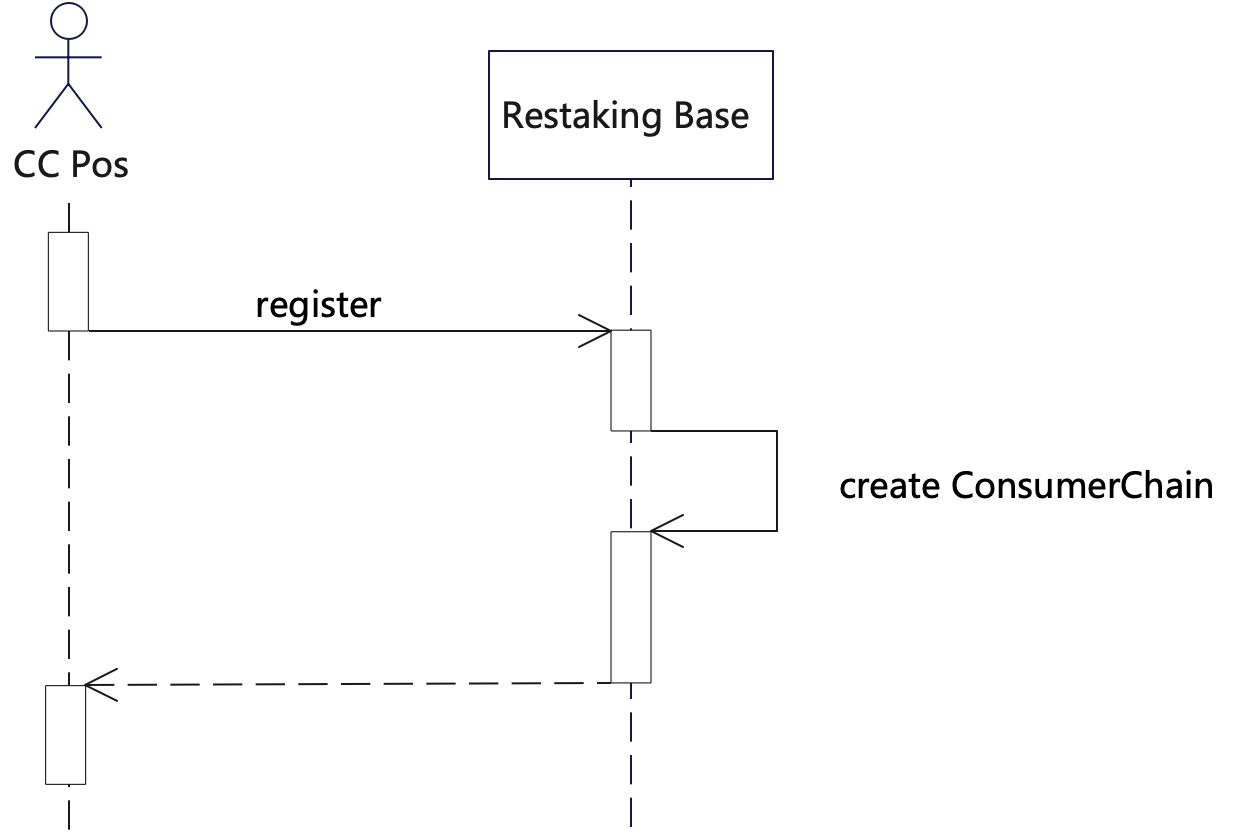
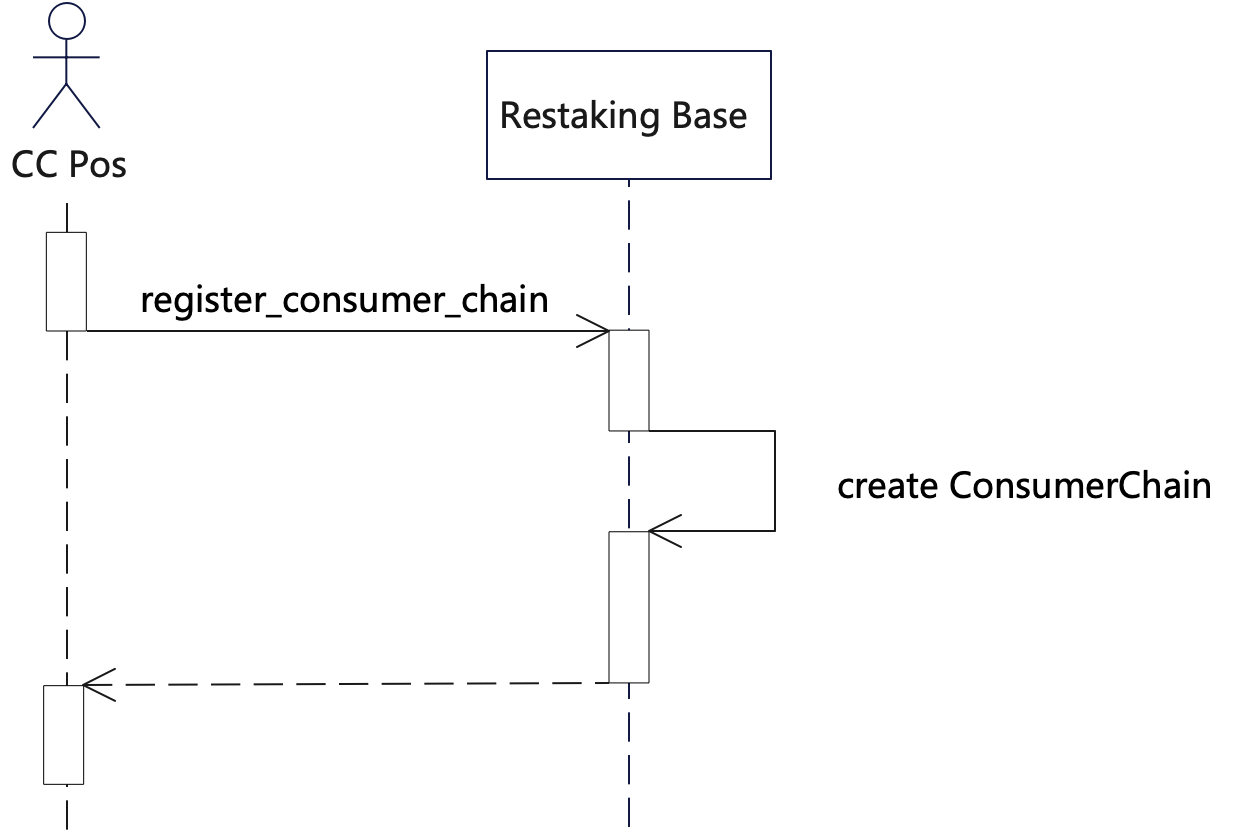
adjust spec and add datastruct and interface

diff --git a/README.md b/README.md
@@ -5,19 +5,20 @@ This contract aims to provide two main functionalities. The first one is to prox
 Contents:
 
 - [Restaking Base](#restaking-base)
-	- [Terminology](#terminology)
-	- [Function specification](#function-specification)
-		- [Stake](#stake)
-		- [Increase Stake](#increase-stake)
-		- [Decrease Stake](#decrease-stake)
-		- [Register](#register)
-		- [Bond](#bond)
-		- [Unbond](#unbond)
-		- [Kick](#kick)
-		- [Slash](#slash)
-		- [Unstake](#unstake)
-		- [Withdraw](#withdraw)
-		- [Query Restaking](#query-restaking)
+    - [Terminology](#terminology)
+    - [Function specification](#function-specification)
+        - [Stake](#stake)
+        - [Increase Stake](#increase-stake)
+        - [Decrease Stake](#decrease-stake)
+        - [Register](#register)
+        - [Bond](#bond)
+        - [Unbond](#unbond)
+        - [Kick](#kick)
+        - [Slash](#slash)
+        - [Unstake](#unstake)
+        - [Withdraw](#withdraw)
+        - [Query Restaking](#query-restaking)
+    - [DataStruct and Interfaces](#dataStruct-and-interfaces)
 
 ## Terminology
 
@@ -47,38 +48,53 @@ Contents:
 
 ### Stake
 
-The `stake` operation requires specifying an account that implements the `staking pool` interface. Users will stake attached NEAR tokens to this account and record it internally in the `staking-base` contract.
+The `stake` operation requires specifying an account which is sub-account of near `staking-pool-factory` account. Users will stake attached NEAR tokens to this account and record it internally in the `staking-base` contract.
 
-Users can only choose one `staking pool` for `staking` at a time. If they want to switch to another `staking pool`, they need to complete an `unstake` operation first.
+Users can only choose one `staking pool` for `staking` at same time. If they want to switch to another `staking pool`, they need to complete an `unstake` operation first.
 
 ![](images/stake.png)
 
 ### Increase Stake
 
-Increase the `staker`  balance after the `stake` operation has been completed.
+The `Staker` can increase their `staking` amount after the `stake` operation has been completed.
 ![](images/increase_stake.png)
 
 ### Decrease Stake
 
-The `Staker` can reduce their `stake` amount, but it cannot be less than the minimum value specified by any `consumer chain` they are currently `bonding` to.
+The `Staker` can reduce their `staking` amount after the `stake` operation has been completed. The `CC Pos` can't stop `Staker` decreasing their stake amount, but the `CC Pos` can only select `Stakers` with staking balances ranked within a certain range.
 
 ![](images/decrease_stake.png)
 
 ### Register
 
-This interface allows a `consumer chain` to submit registration information to the staking-base contract. The following information needs to be provided: `energy_cost `, `unbond_period `, `minimum_bond_amount `, `website `, `governance `, and `slash_beneficiary_account`. Additionally, a certain amount of NEAR tokens needs to be attached as the registration fee during the registration process.
-
-There will also be another interface `update_consumer_chain_info` that allows the `consumer chain` to update their information (excluding `governance `) and this interface must be called by the `governance` account.
+This `consumer chain` can submit registration information to the staking-base contract. The following information needs to be provided: `chain_id`, `energy_cost `, `unbond_period `, `website `, `governance `, and `treasury`. Additionally, a certain amount of NEAR tokens needs to be attached as the registration fee during the registration process.
 
 ![](images/register.png)
 
+### Update CC Info
+
+The `CC Gov` can update `CC Pos` information and this interface must be called by the `governance` account.
+
+![](images/update-info.png)
+
+### Unregister
+The `CC Gov` can unregister `CC Pos` and the `restaking-base` will transfer register fee to `treasury` account.
+
+![](images/unregister.png)
+
 ### Bond
 
-After the `staker` has completed the `stake` operation through this contract, they can execute the `bond` operation, which will restake their staked NEAR to a specific `consumer chain` to provide security for the `consumer chain` PoS operation and to receive rewards or `slash` from the `consumer chain`.
-
+After the `Staker` has completed the `stake` operation through this contract, they can execute the `bond` operation, which will restake their staked NEAR to a specific `consumer chain` to provide security for the `consumer chain` PoS operation and to receive rewards or `slash` from the `consumer chain`.
+The `Staker` need to submit his staking information and identity when bonding.
 And Consumer Chain PoS accepts or rejects a bond request according to its rules, such as \$NEAR > Th, NFT ownership, etc. Restaking energy is here to restrain over-leverage risk. Each staker has a certain amount of energy, and he loses energy after bonding. Energy cost is determined by the consumer chain.
 
 ![](images/bond.png)
+
+### Change Identity
+
+The `Staker` can change his identity after finish bonding. 
+
+![](images/change_identity.png)
 
 ### Unbond
 
@@ -90,39 +106,49 @@ Once `unbond` is finished, the `staker` will recover energy.
 
 ![](images/unbond.png)
 
-### Kick
+### Blacklist
 
-The `Kick` has the same result as the `Unbond`, but it is called by `Consumer Chain Pos`.
+The CC Pos can blacklist Stakers, which will prevent them from bonding.
 
-![](images/kick.png)
+![](images/blacklist.png)
 
 ### Slash
 
-`Slash` is a penalty operation that is initiated by the `Consumer Chain Pos` to punish a `staker` for misconduct. The process is divided into two steps: first, the `Consumer Chain Pos`  submits a `slash` to the `staking-base` contract, and then `governance` decides whether to execute the `slash`.
+`Slash` is a penalty operation that is initiated by the `Consumer Chain Pos` to punish a `staker` for misconduct. 
+
+The process is divided into two steps: first, the `Consumer Chain Pos`  submits a `slash` to the `staking-base` contract, and then `governance` decides whether to execute the `slash`.
 
 Rules of executing slash:
 
 1. It will slash on the asset in `Staker.pending_unstakes` with the smallest `unlock_time` first.
 2. If the assets in `Staker.pending_unstakes` are not sufficient for the `slash` amount, the `unstake` operation is executed first, and `Staker.pending_unstakes` is updated before continuing with the `slash` operation.
 3. If the assets are still not enough after the `unstake` operation, it is still considered a successful `slash`, and the total amount successfully `slashed` is returned.
-4. After the assets in `Staker.pending_unstakes` are `slashed`, a `PendingUnstake` is created for the `CC Pos`'s `slash_beneficiary_account` that was specified during registration. The `PendingUnstake.unlock_epoch` field inherits the `unlock_epoch` of the `PendingUnstake` that was `slashed`, and `PendingUnstake.unlock_time` is set to 0.
+4. After the assets in `Staker.pending_unstakes` are `slashed`, a `PendingUnstake` is created for the `CC Pos`'s `treasury` that was specified during registration. The `PendingUnstake.unlock_epoch` field inherits the `unlock_epoch` of the `PendingUnstake` that was `slashed`, and `PendingUnstake.unlock_time` is set to current_time.
 
 ![](images/submit_slash.png)
 ![](images/do_slash.png)
 
+### Query Restaking
+
+In order to update validator set, the `CC Pos` is motivated to query the Restaking Base contract periodically.
+
+The `CC Pos` can specify a `limit` parameter to indicate that it only selects a certain number of Stakers ranked by staking amount. And the CC Pos will still perform an additional filtering based on the Stakers' staking amount to determine if they will become their validator.
+
+![](images/query_restaking.png)
+
 ### Unstake
 
-When a `Staker` performs the `unstake` operation, they must first `Unbond` all `consumer chain` PoS they are currently `Bond` to.
+When a `Staker` performs the `unstake` operation, they must first `Unbond` all `consumer chain` PoS they are currently bonding.
 
-The withdrawable time after `Unstake`depends on the longest `Unbonding period` among all bonding `Consumer Chain Pos`.
+The withdrawable time after `Unstake`depends on the longest `Unbonding period` among all bonding `CC Pos`.
 ![](images/unstake.png)
 
 ### Withdraw
 
-The `Staker` can withdraw their `unstaked_balance` in the contract.
+When a Staker performs the unstake or decrease stake operation, the contract will generate PendingUnstake data as a withdrawal voucher. When the Staker comes to withdraw, they need to specify the list of PendingUnstake IDs. The `restaking-base contract` will destroy the Withdrawable PendingUnstake and transfer the corresponding NEAR to the Staker.
+
 ![](images/withdraw.png)
 
-### Query Restaking
 
-In order to update validator set, the consumer chain is motivated to query the Restaking Base contract periodically.
-![](images/query_restaking.png)
+## DataStruct and Interfaces
+![](images/datastructs_and_interfaces.png)
